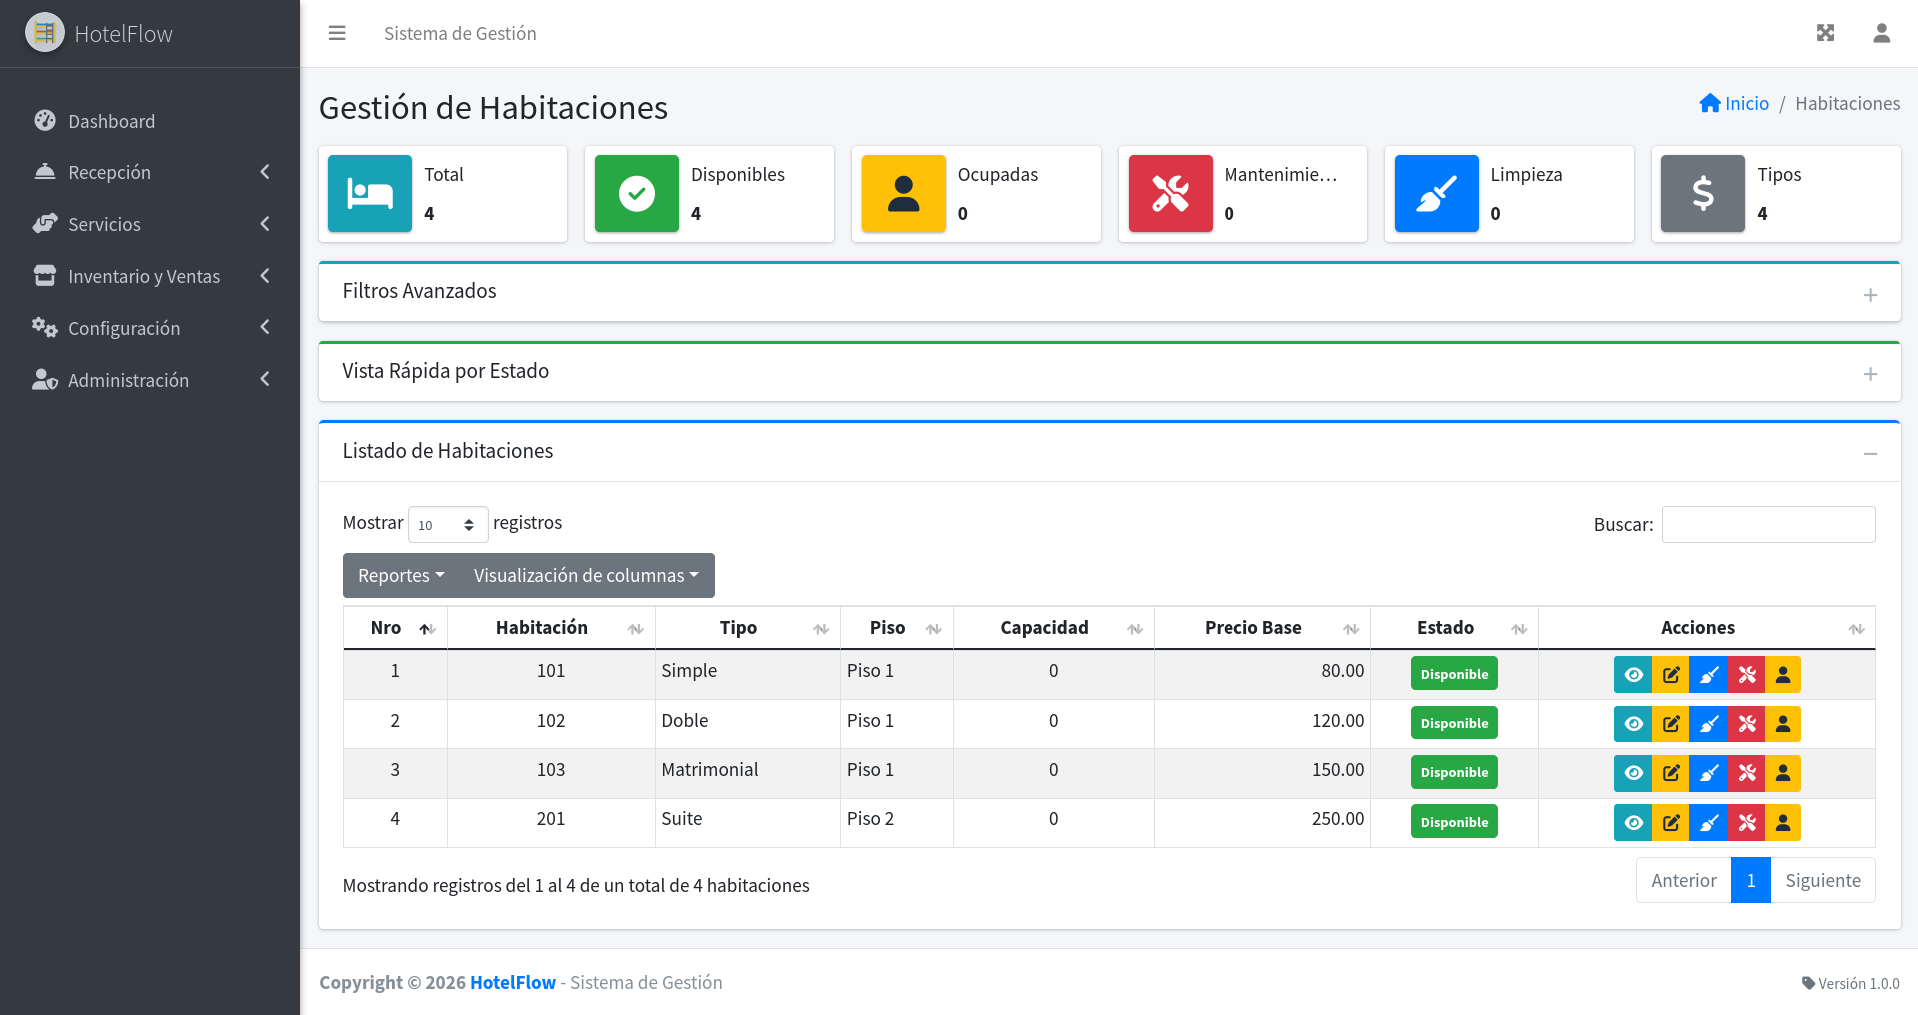
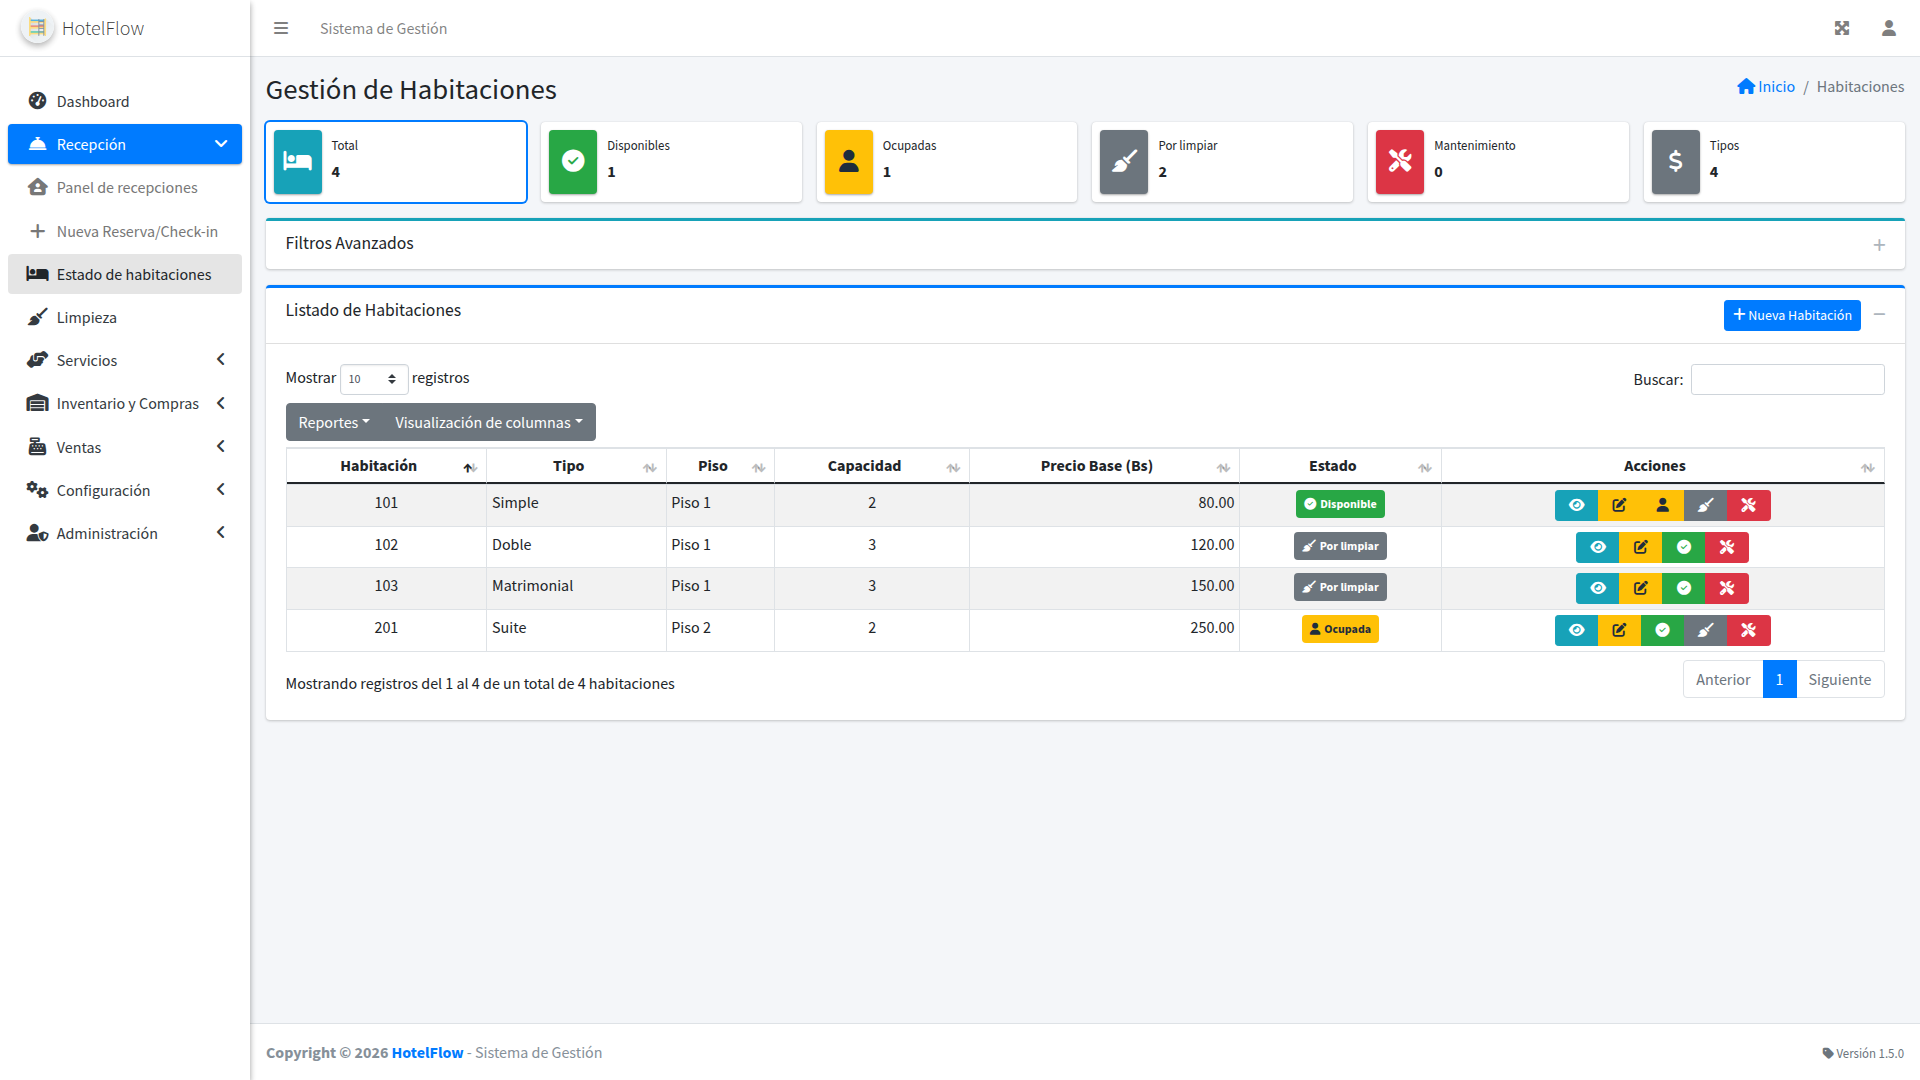
docs: sincronizar capturas del README y eliminar sección de Reportes

diff --git a/CLAUDE.md b/CLAUDE.md
@@ -242,3 +242,4 @@ Tras una pasada de endurecimiento de seguridad en todo el código, todo endpoint
 - Subida de imágenes soporta jpg, png, gif, webp con redimensionado automático
 - Manejo de sesión y verificación de auth están en `views/layouts/session.php`
 - Variable global `$URL` contiene la ruta base de la aplicación
+- **README = espejo del código (capturas y secciones), actualizado en el mismo commit:** `README.md` solo puede describir vistas/módulos que existan, y los PNG de `public/img/screenshots/` deben corresponder a la UI actual. Al refactorizar/rediseñar una vista con captura, o al eliminar un módulo, actualizar README de inmediato: regenerar el PNG y borrar la sección/captura de lo que ya no existe (no dejar "docs colgantes" de módulos eliminados). Regeneración con Playwright (`playwright-cli`, viewport 1920px, login `admin@hotelflow.local`/`admin123`; primera vez en una máquina: `playwright-cli install-browser chrome-for-testing`): recorrer la vista en el navegador y **verificar por DOM que los encabezados/estados correspondan al diseño actual** antes de sobrescribir, y conservar la captura existente si la nueva resulta con menos contenido (p. ej. un gráfico que hoy está vacío por falta de datos de prueba). Caso real 2026-09-27: 3 de 6 capturas venían del 03-jul (anteriores a los refactors de habitaciones y ventas) y el README seguía publicando el módulo Reportes, eliminado en 1.4.0.

diff --git a/README.md b/README.md
@@ -65,14 +65,6 @@ Registro de ventas en dos columnas con catálogo por modales, pago único o mixt
 
 ![Ventas](public/img/screenshots/ventas.png)
 
----
-
-### Reportes
-
-Exportación de reportes de ventas y estadísticas del negocio.
-
-![Reportes](public/img/screenshots/reportes.png)
-
 ## Características
 
 | Módulo           | Funcionalidades                                                                                                                                                                                                           |
